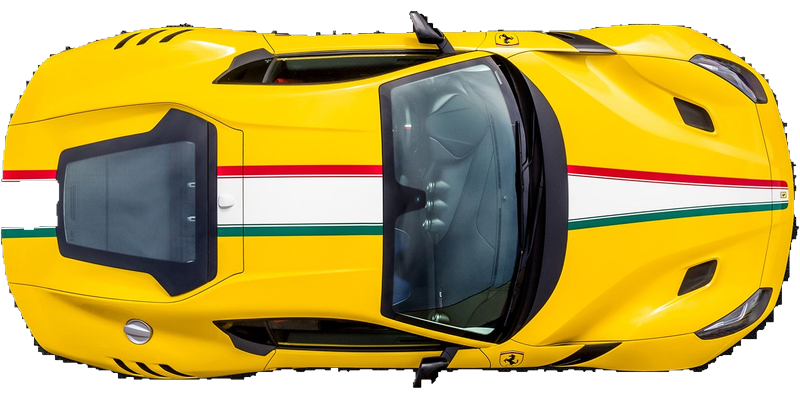
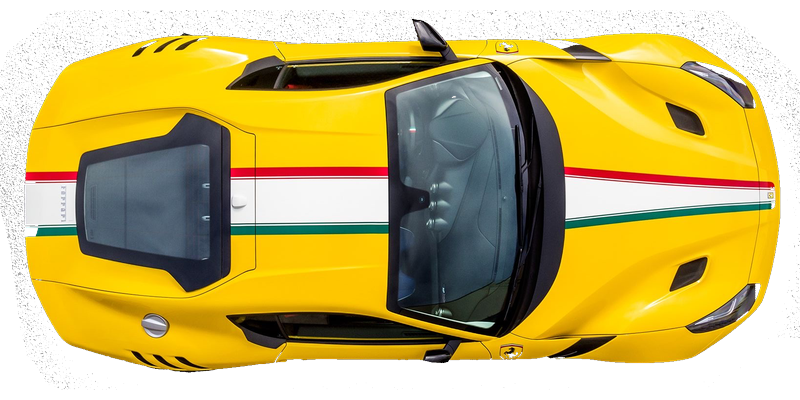
Swap in cleaner orange/Ferrari car cutouts, add photoreal box trucks
Replace traffic-sedan-1 and traffic-sedan-5 with cleaner pre-cut
versions of the same cars. Add two real 3-cell truck photos (garbage
truck, school bus) wired into the box-truck/tanker slot alongside the
existing procedural shapes, recolored per piece the same way as the
sedans.

Also fixes two recolor bugs surfaced while testing the swap:
- SEDAN_PHOTOS[0]'s hue was still the OLD photo's paint hue (23) after
  the image was replaced, so every recolored instance was rotating
  from the wrong starting point. Remeasured (14) from the new photo.
- hueRotate alone can't reproduce a muted/dark target color (e.g. the
  midnight-phantom skin) from a vividly-painted source photo — it only
  rotates hue, so a saturated photo stayed saturated at any angle,
  rendering as a neon color instead of the intended dark tone. Added a
  saturate() pass scaled to the target color's own saturation.

diff --git a/js/art.js b/js/art.js
@@ -21,9 +21,15 @@ const CLASSIC_CAR_IMG = 'assets/cars/classic.png';
    variety; Garage skins always use index 0, whose beam/glow geometry
    (photoHeroExtra below) is tuned to that specific photo's edges. */
 const SEDAN_PHOTOS = [
-  { img: 'assets/cars/traffic-sedan-1.png', hue: 23 },
+  { img: 'assets/cars/traffic-sedan-1.png', hue: 14 },
   { img: 'assets/cars/traffic-sedan-2.png', hue: 12 },
   { img: 'assets/cars/traffic-sedan-3.png', hue: 212 },
+];
+
+/* Same idea as SEDAN_PHOTOS but for len-3 pieces (box truck / tanker slot). */
+const TRUCK_PHOTOS = [
+  { img: 'assets/cars/traffic-truck-1.png', hue: 156 },
+  { img: 'assets/cars/traffic-truck-2.png', hue: 37 },
 ];
 
 function hexHue(hex){
@@ -41,6 +47,22 @@ function hexHue(hex){
 
 function hueRotationFor(targetHex, sourceHue){
   return ((hexHue(targetHex) - sourceHue) % 360 + 360) % 360;
+}
+
+function hexSat(hex){
+  const n = parseInt(hex.slice(1), 16);
+  const r = ((n >> 16) & 255) / 255, g = ((n >> 8) & 255) / 255, b = (n & 255) / 255;
+  const max = Math.max(r, g, b), min = Math.min(r, g, b);
+  return max === 0 ? 0 : (max - min) / max;
+}
+
+/* hueRotate alone can't reproduce a muted/dark target like the
+   midnight-phantom skin from a vividly-painted source photo — it only
+   rotates hue, so a saturated photo stays saturated at any angle. Scale
+   saturation toward the target's own (relative to the photos' typical
+   ~.75 paint saturation) so low-chroma skins don't come out neon. */
+function satScaleFor(targetHex){
+  return Math.max(0.3, Math.min(1.3, hexSat(targetHex) / 0.75));
 }
 
 export const PALETTE = [ // [base, dark, glass-tint] — 0 reserved for hero red
@@ -177,6 +199,7 @@ export function vehicleSVG(idx, len, dir, isHero, opts = {}){
   // picking the photo with idx%3 too would always land on the same photo
   // whenever a sedan is chosen — use a different stride to decorrelate them.
   const sedanPhoto = isHero ? SEDAN_PHOTOS[0] : SEDAN_PHOTOS[Math.floor(idx / 3) % SEDAN_PHOTOS.length];
+  const truckPhoto = TRUCK_PHOTOS[Math.floor(idx / 4) % TRUCK_PHOTOS.length];
 
   const defs = `
   <defs>
@@ -200,7 +223,14 @@ export function vehicleSVG(idx, len, dir, isHero, opts = {}){
     </linearGradient>
     <filter id="${soft}" x="-80%" y="-80%" width="260%" height="260%"><feGaussianBlur stdDeviation="2.2"/></filter>
     <filter id="${gid}bblur" filterUnits="userSpaceOnUse" x="-40" y="-100" width="${L + 350}" height="300"><feGaussianBlur stdDeviation="4.5"/></filter>
-    <filter id="${gid}hue"><feColorMatrix type="hueRotate" values="${hueRotationFor(base, sedanPhoto.hue)}"/></filter>
+    <filter id="${gid}hue">
+      <feColorMatrix type="hueRotate" values="${hueRotationFor(base, sedanPhoto.hue)}"/>
+      <feColorMatrix type="saturate" values="${satScaleFor(base)}"/>
+    </filter>
+    <filter id="${gid}hue2">
+      <feColorMatrix type="hueRotate" values="${hueRotationFor(base, truckPhoto.hue)}"/>
+      <feColorMatrix type="saturate" values="${satScaleFor(base)}"/>
+    </filter>
   </defs>`;
 
   /* Hero (classic photo car): tuned to classic.png's actual bumper edges
@@ -242,9 +272,12 @@ export function vehicleSVG(idx, len, dir, isHero, opts = {}){
     // paint color alone still distinguishes every unlocked skin.
     body = `<image href="${sedanPhoto.img}" x="0" y="0" width="${L}" height="${H}" preserveAspectRatio="none" filter="url(#${gid}hue)"/>${photoHeroExtra}`;
   } else if(len >= 3){
-    const variant = (idx * 7 + len) % 2;
+    const variant = (idx * 7 + len) % 3;
     const extra = headlights(L, soft) + (cb ? decal(idx, L * 0.36, 50) : '');
-    body = variant === 0 ? boxtruck(0, L, gid, extra, dark) : tanker(0, L, gid, extra, base);
+    body = variant === 0
+      ? `<image href="${truckPhoto.img}" x="0" y="0" width="${L}" height="${H}" preserveAspectRatio="none" filter="url(#${gid}hue2)"/>${cb ? decal(idx, L * 0.5, 50) : ''}`
+      : variant === 1 ? boxtruck(0, L, gid, extra, dark)
+      : tanker(0, L, gid, extra, base);
   } else {
     const variant = (idx * 5 + len) % 3;
     const extra = headlights(L, soft) + (cb ? decal(idx, L * 0.5, 50) : '');